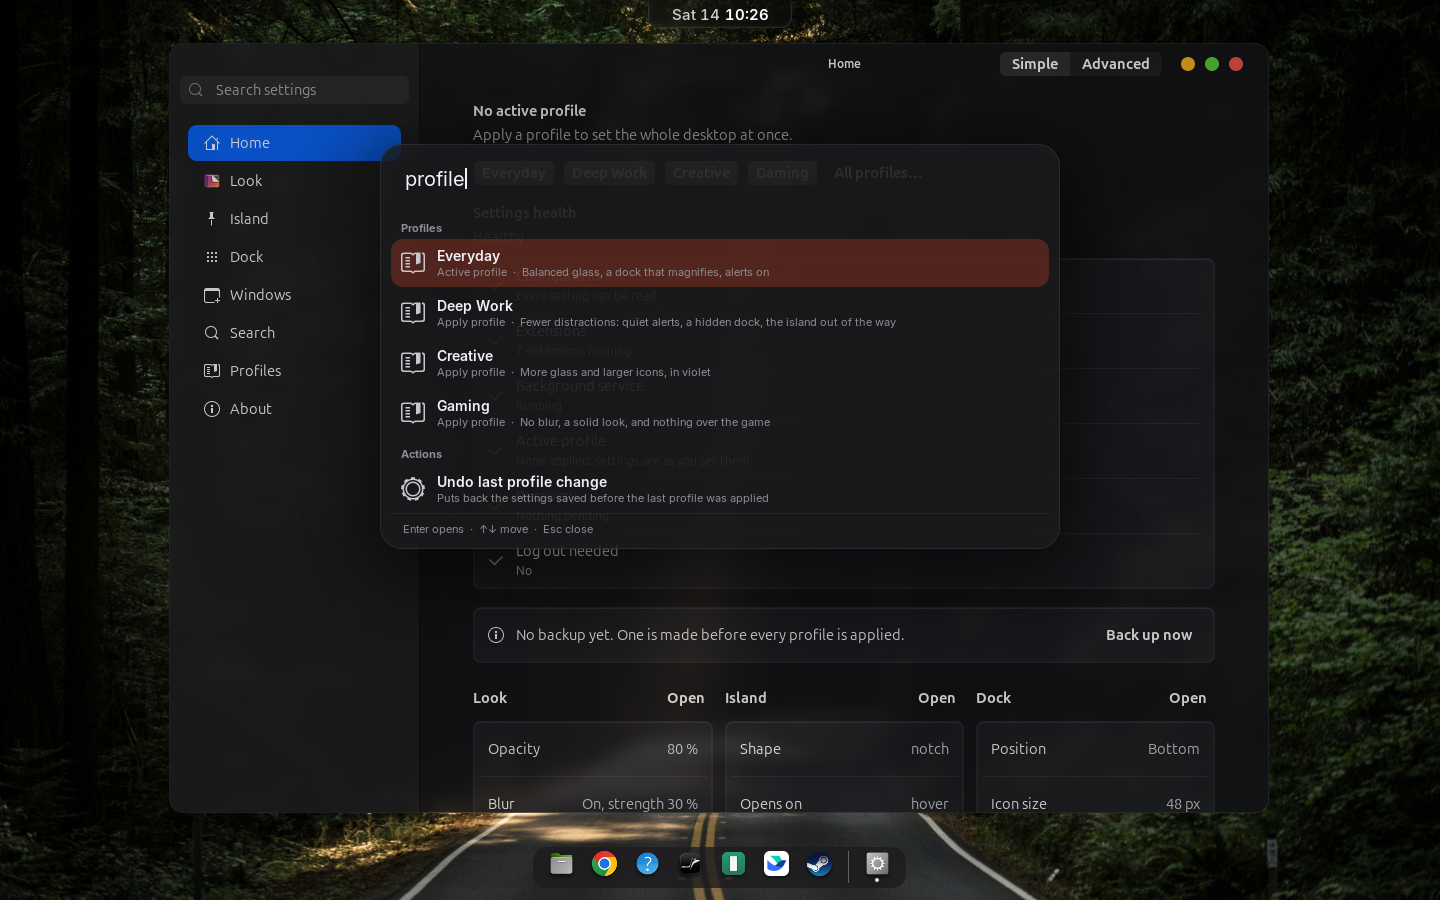
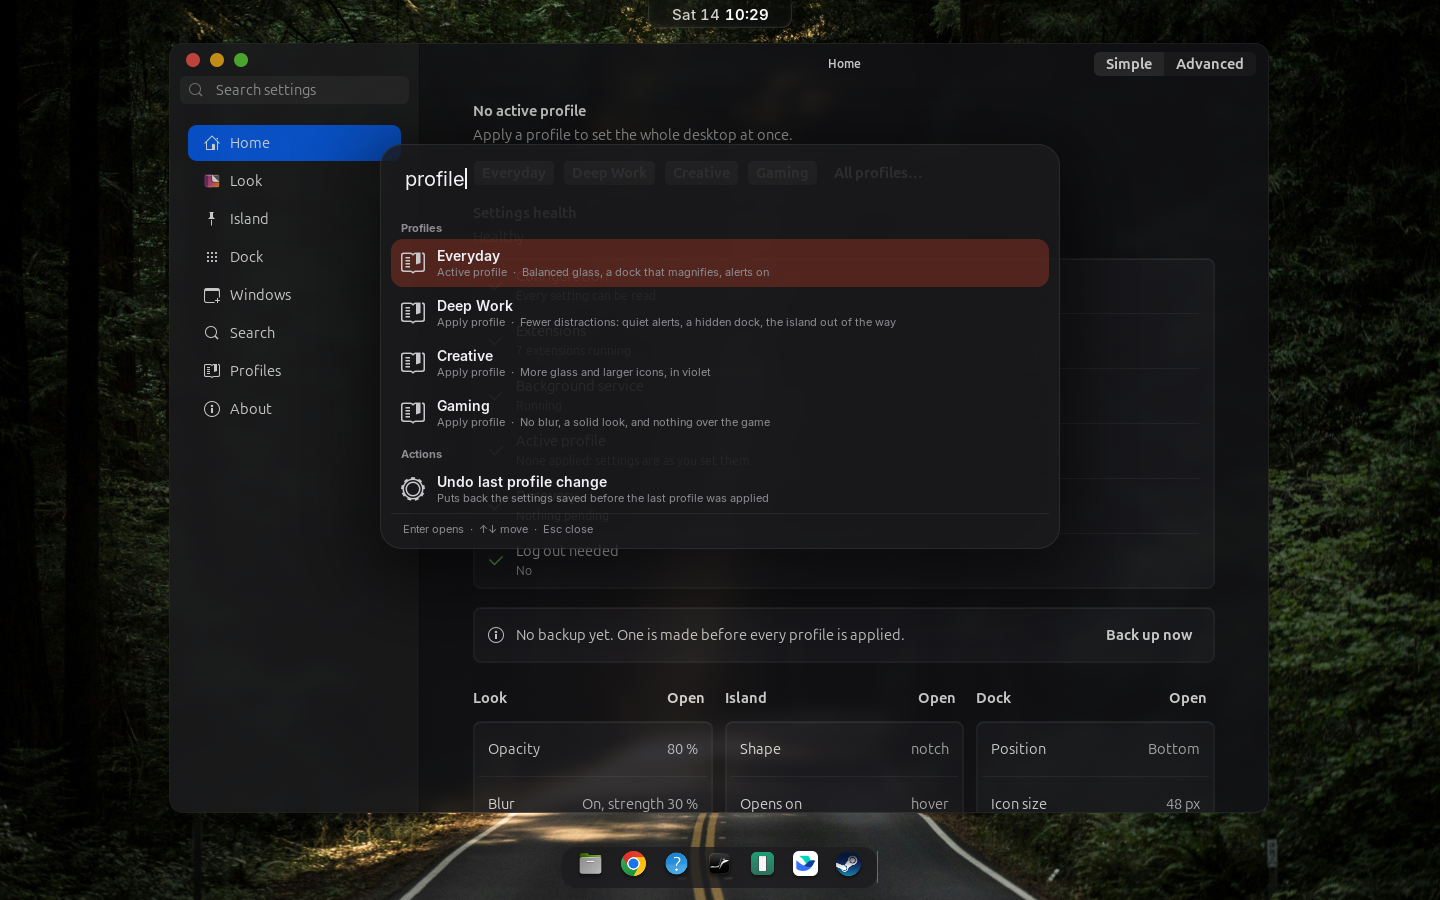
Control Panel: window buttons (close, minimise, maximise) on the left of the sidebar header regardless of system layout; narrow mode moves them to the page header; screenshots

Changed region(s): [[0.375, 0.9333, 0.625, 0.9956], [0.6875, 0.0622, 0.875, 0.0933], [0.125, 0.0622, 0.1875, 0.0933]]

diff --git a/control/src/window.ts b/control/src/window.ts
@@ -126,7 +126,9 @@ export function buildWindow(app) {
     };
     const search = settingsSearch(find, () => { content.set_visible_child_name(current); contentTitle.set_title(titles.get(current)); });
 
-    const sideTop = new Adw.HeaderBar({show_title: false, css_classes: ['flat']});
+    // the window buttons (close, minimise, maximise) sit at the left, on the sidebar's header, whatever the system layout says
+    const LEFT = 'close,minimize,maximize:';
+    const sideTop = new Adw.HeaderBar({show_title: false, css_classes: ['flat'], decoration_layout: LEFT});
     const sideBody = new Gtk.Box({orientation: Gtk.Orientation.VERTICAL});
     const searchBox = new Gtk.Box({margin_start: 10, margin_end: 10, margin_bottom: 8}); searchBox.append(search);
     sideBody.append(searchBox); sideBody.append(list);
@@ -134,7 +136,7 @@ export function buildWindow(app) {
     sideView.add_css_class('niro-sidebar');
 
     const pageBox = new Gtk.Box({orientation: Gtk.Orientation.VERTICAL});
-    const contentHeader = new Adw.HeaderBar({title_widget: contentTitle});
+    const contentHeader = new Adw.HeaderBar({title_widget: contentTitle, decoration_layout: ':'});
     const contentView = new Adw.ToolbarView({content: pageBox, css_classes: ['niro-content']}); contentView.add_top_bar(contentHeader);
     // Simple shows the common settings; Advanced shows all of them. Only what is shown changes, never a value.
     const modeBox = new Gtk.Box({css_classes: ['linked'], valign: Gtk.Align.CENTER});
@@ -156,6 +158,7 @@ export function buildWindow(app) {
     window.set_content(split);
     const bp = Adw.Breakpoint.new(Adw.BreakpointCondition.parse('max-width: 760sp'));
     bp.add_setter(split, 'collapsed', true);
+    bp.add_setter(contentHeader, 'decoration-layout', LEFT); // narrow: the sidebar is hidden, the buttons move to the page's header
     bp.connect('apply', () => split.set_show_content(true)); // narrow: start on the page, the back arrow shows the modules
     // narrow: the sections list of Island and Dock becomes a menu above the page (watched by hand: breakpoints are one at a time)
     let narrow = null;
